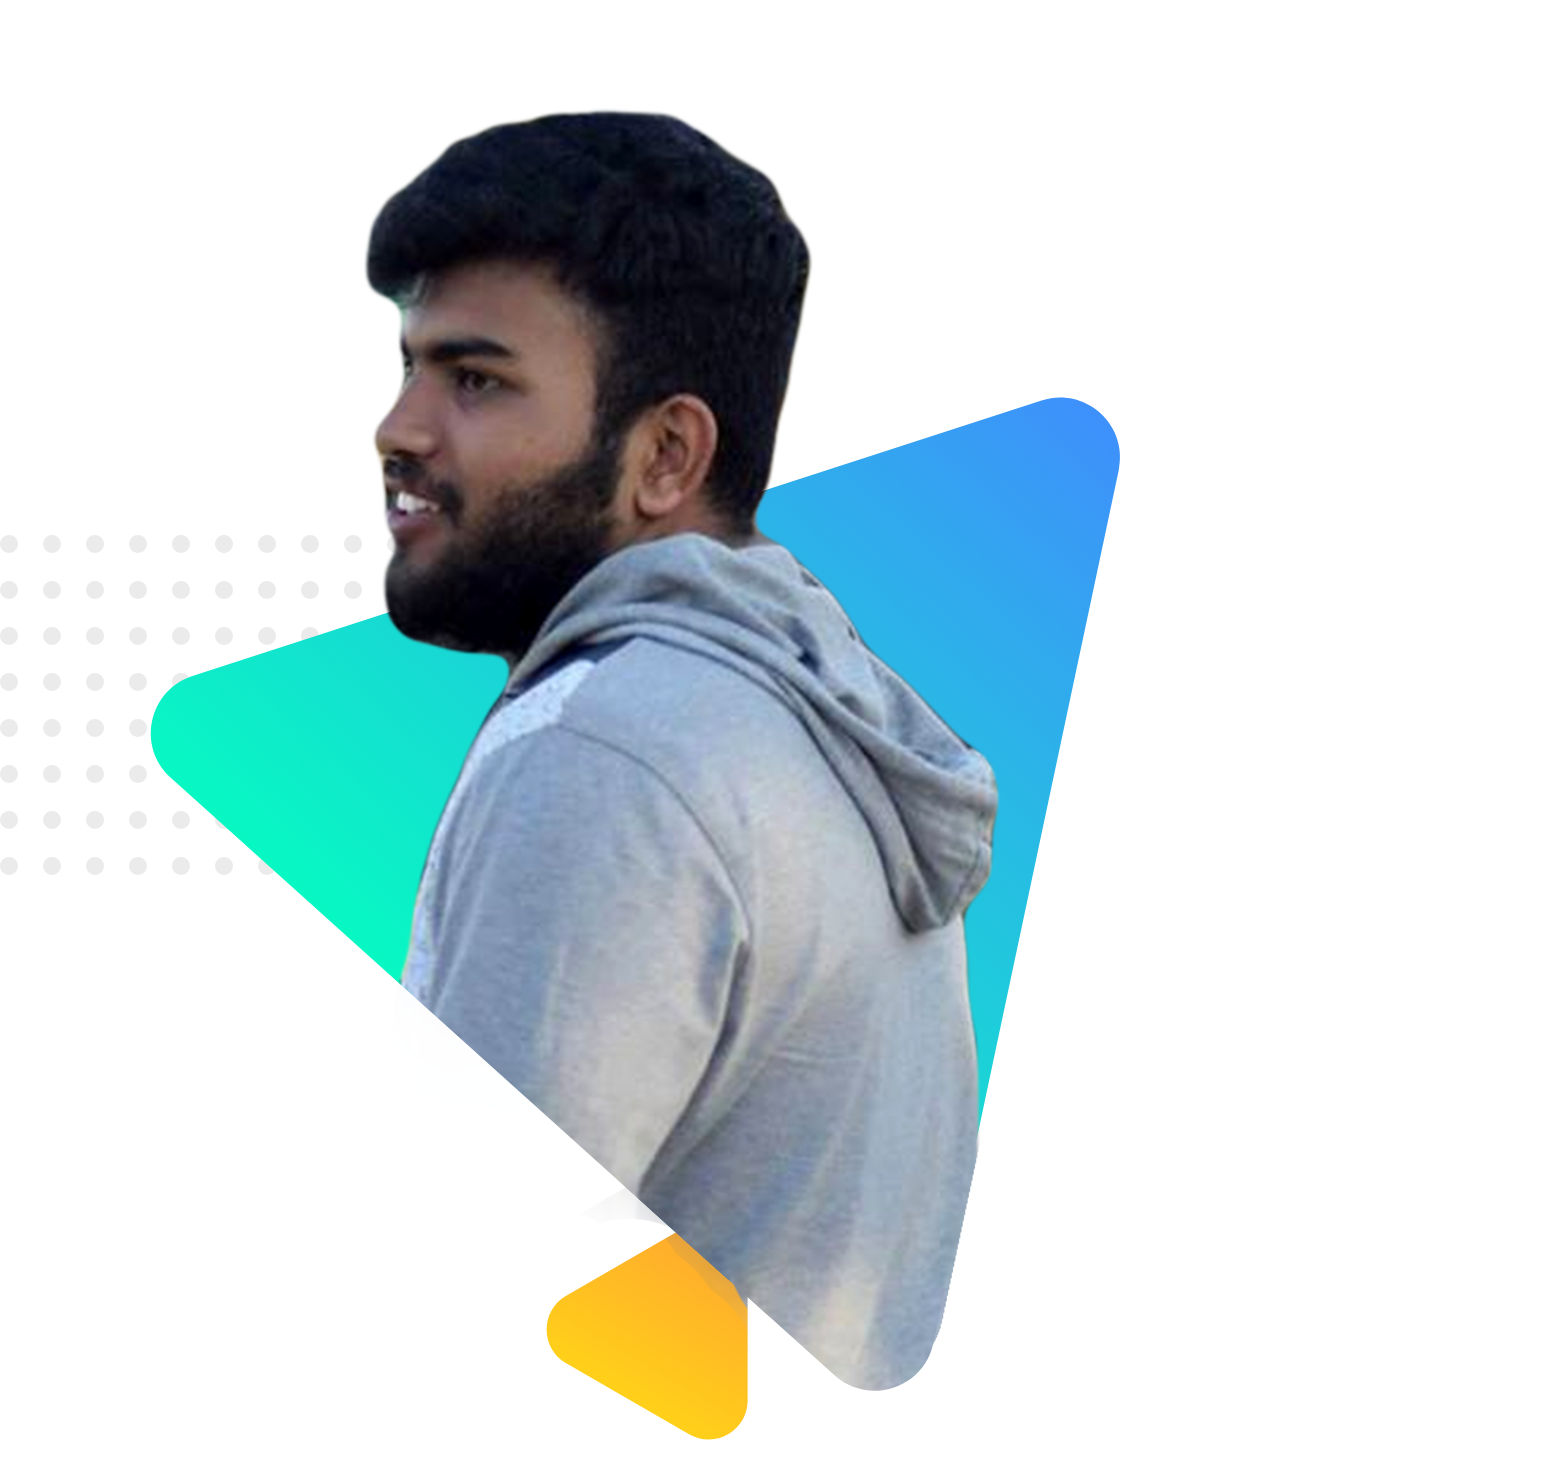
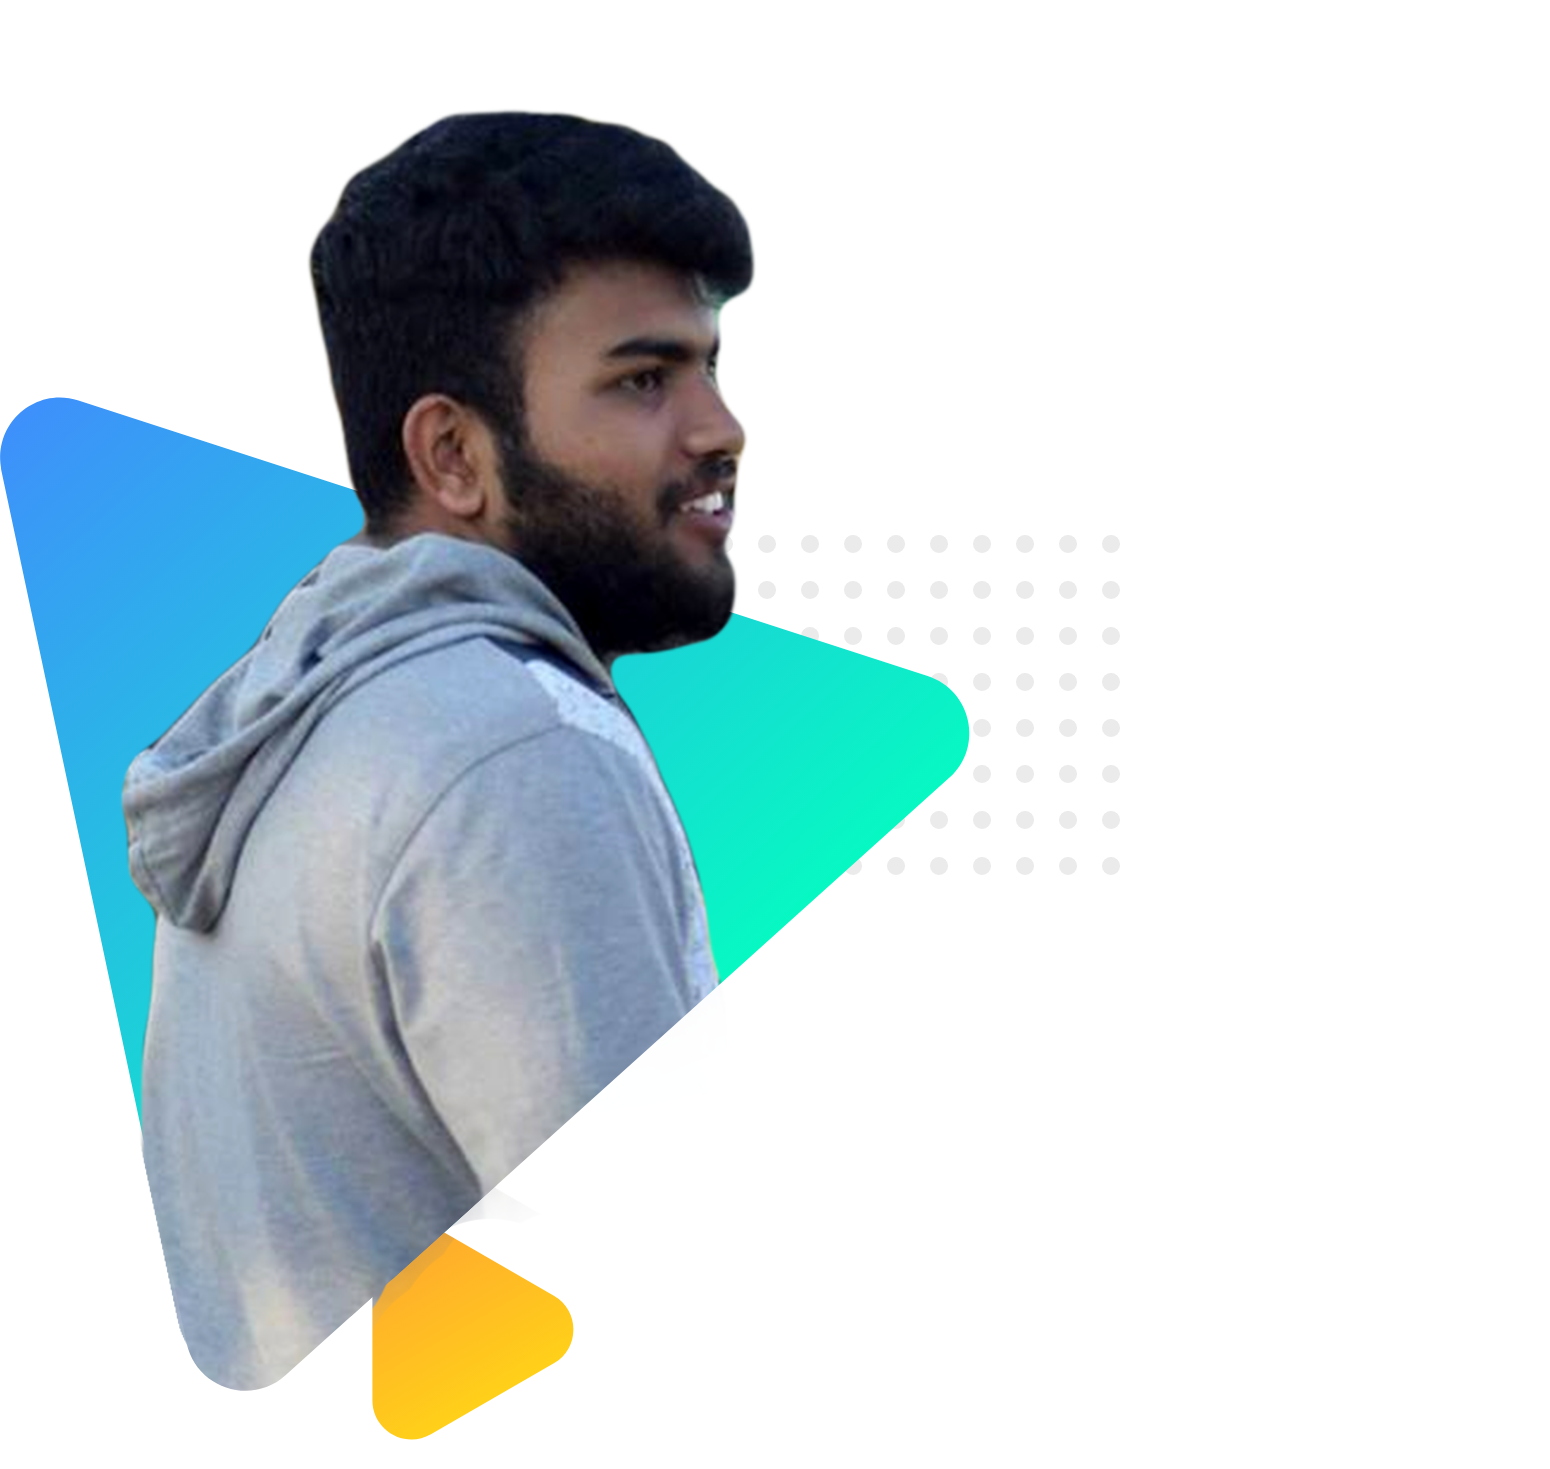
Added middle section which contain my goal with yt channel

diff --git a/index.html b/index.html
@@ -12,13 +12,12 @@
     <title>Sh's Adventure</title>
   </head>
   <body>
-    
-    <!--topsection of the website starts from here-->
+    <!--top-section of the website starts from here-->
     <section class="top-section">
       <div class="half-width">
         <h1>This is</h1>
         <h1><span class="text-highlight">Sh's</span> world</h1>
-        <h3>Web developer and shortflim director</h3>
+        <h3 class="developer">Web developer and shortflim director</h3>
         <p>
           Hi....My name is
           <span class="name-highlight">Md.Faysal Islam Shuvo.</span>I Graduated
@@ -36,7 +35,36 @@
         <img src="images/profile01.png" alt="A man with zero power glass" />
       </div>
     </section>
-    <!--topsection of the website starts from here-->
+    <!--top-section of the website ends here-->
 
+    <!--middile-section of the website starts here-->
+    <section class="middile-section">
+      <div class="half-width">
+        <img
+          src="images/profile02.png"
+          alt="a man; looking over his shoulder"
+        />
+      </div>
+      <div class="half-width">
+        <h2 class="Goal">My Goal</h2>
+        <h3>
+          Become a <span class="name-highlight">World Class Director.</span>
+        </h3>
+        <p>
+          So why am i trying to be web developer? I had a soft space in my heart
+          for developing, and i won't be a world class director in a day.So my
+          for my livelihood i am choosing to be developer. So that in my off
+          time i can make my own movie. so yeah., My goal is to be a World Class
+          Flim Director.
+        </p>
+        <a
+          class="yt-button"
+          href="https://www.youtube.com/channel/UC09mGyMyZBPJ7HGDMYxWviw"
+          >This is my yt channel</a
+        >
+      </div>
+    </section>
+
+    <!--middile-section of the website ends here--> 
   </body>
 </html>

diff --git a/style.css b/style.css
@@ -6,7 +6,7 @@ body {
 section {
   height: 480px;
 }
-/*css of topsection starts here*/
+/*css of top-section starts from here*/
 .top-section {
   background-image: url(images/exp-bg.png);
   background-repeat: no-repeat;
@@ -16,19 +16,21 @@ section {
   color: white;
 }
 .top-section p {
-  color: rgb(173, 173, 173);
+  color: rgb(240, 240, 240);
+  letter-spacing: normal;
+  font-weight: 100;
 }
 .half-width {
   float: left;
   width: 40%;
-  margin-left: 40px;
+  margin-left: 60px;
   padding: 5px;
 }
 .half-width img {
   margin-top: 20px;
   width: 90%;
 }
-.half-width h3 {
+.half-width .developer {
   color: #12e1cf;
   letter-spacing: 2px;
 }
@@ -38,7 +40,6 @@ section {
 }
 .name-highlight {
   color: rgb(255, 0, 200);
-  font-size: larger;
   letter-spacing: 1px;
 }
 .find-me {
@@ -49,4 +50,32 @@ section {
   font-size: 30px;
   padding: 10px 20px;
 }
-/*css of topsection ends here*/
+/*css of top-section ends here*/
+/*css of middile-section starts here*/
+.middile-section{
+  background-color: #1d1d1d;
+}
+.middile-section p {
+  color: rgb(240, 240, 240);
+  letter-spacing: normal;
+  font-weight: 100;
+}
+.middile-section h3 {
+  color: rgb(228, 228, 228);
+  letter-spacing: 1px;
+}
+.Goal {
+  color: white;
+  font-size: 40px;
+  margin-left: 10px;
+}
+.yt-button {
+  color: rgb(0, 0, 0);
+  text-decoration: none;
+  background-image: linear-gradient(90deg, #00ffd5, #00ccff);
+  height: 40px;
+  font-size: 30px;
+  padding: 10px 20px;
+}
+
+/*css of middle-section ends here*/
